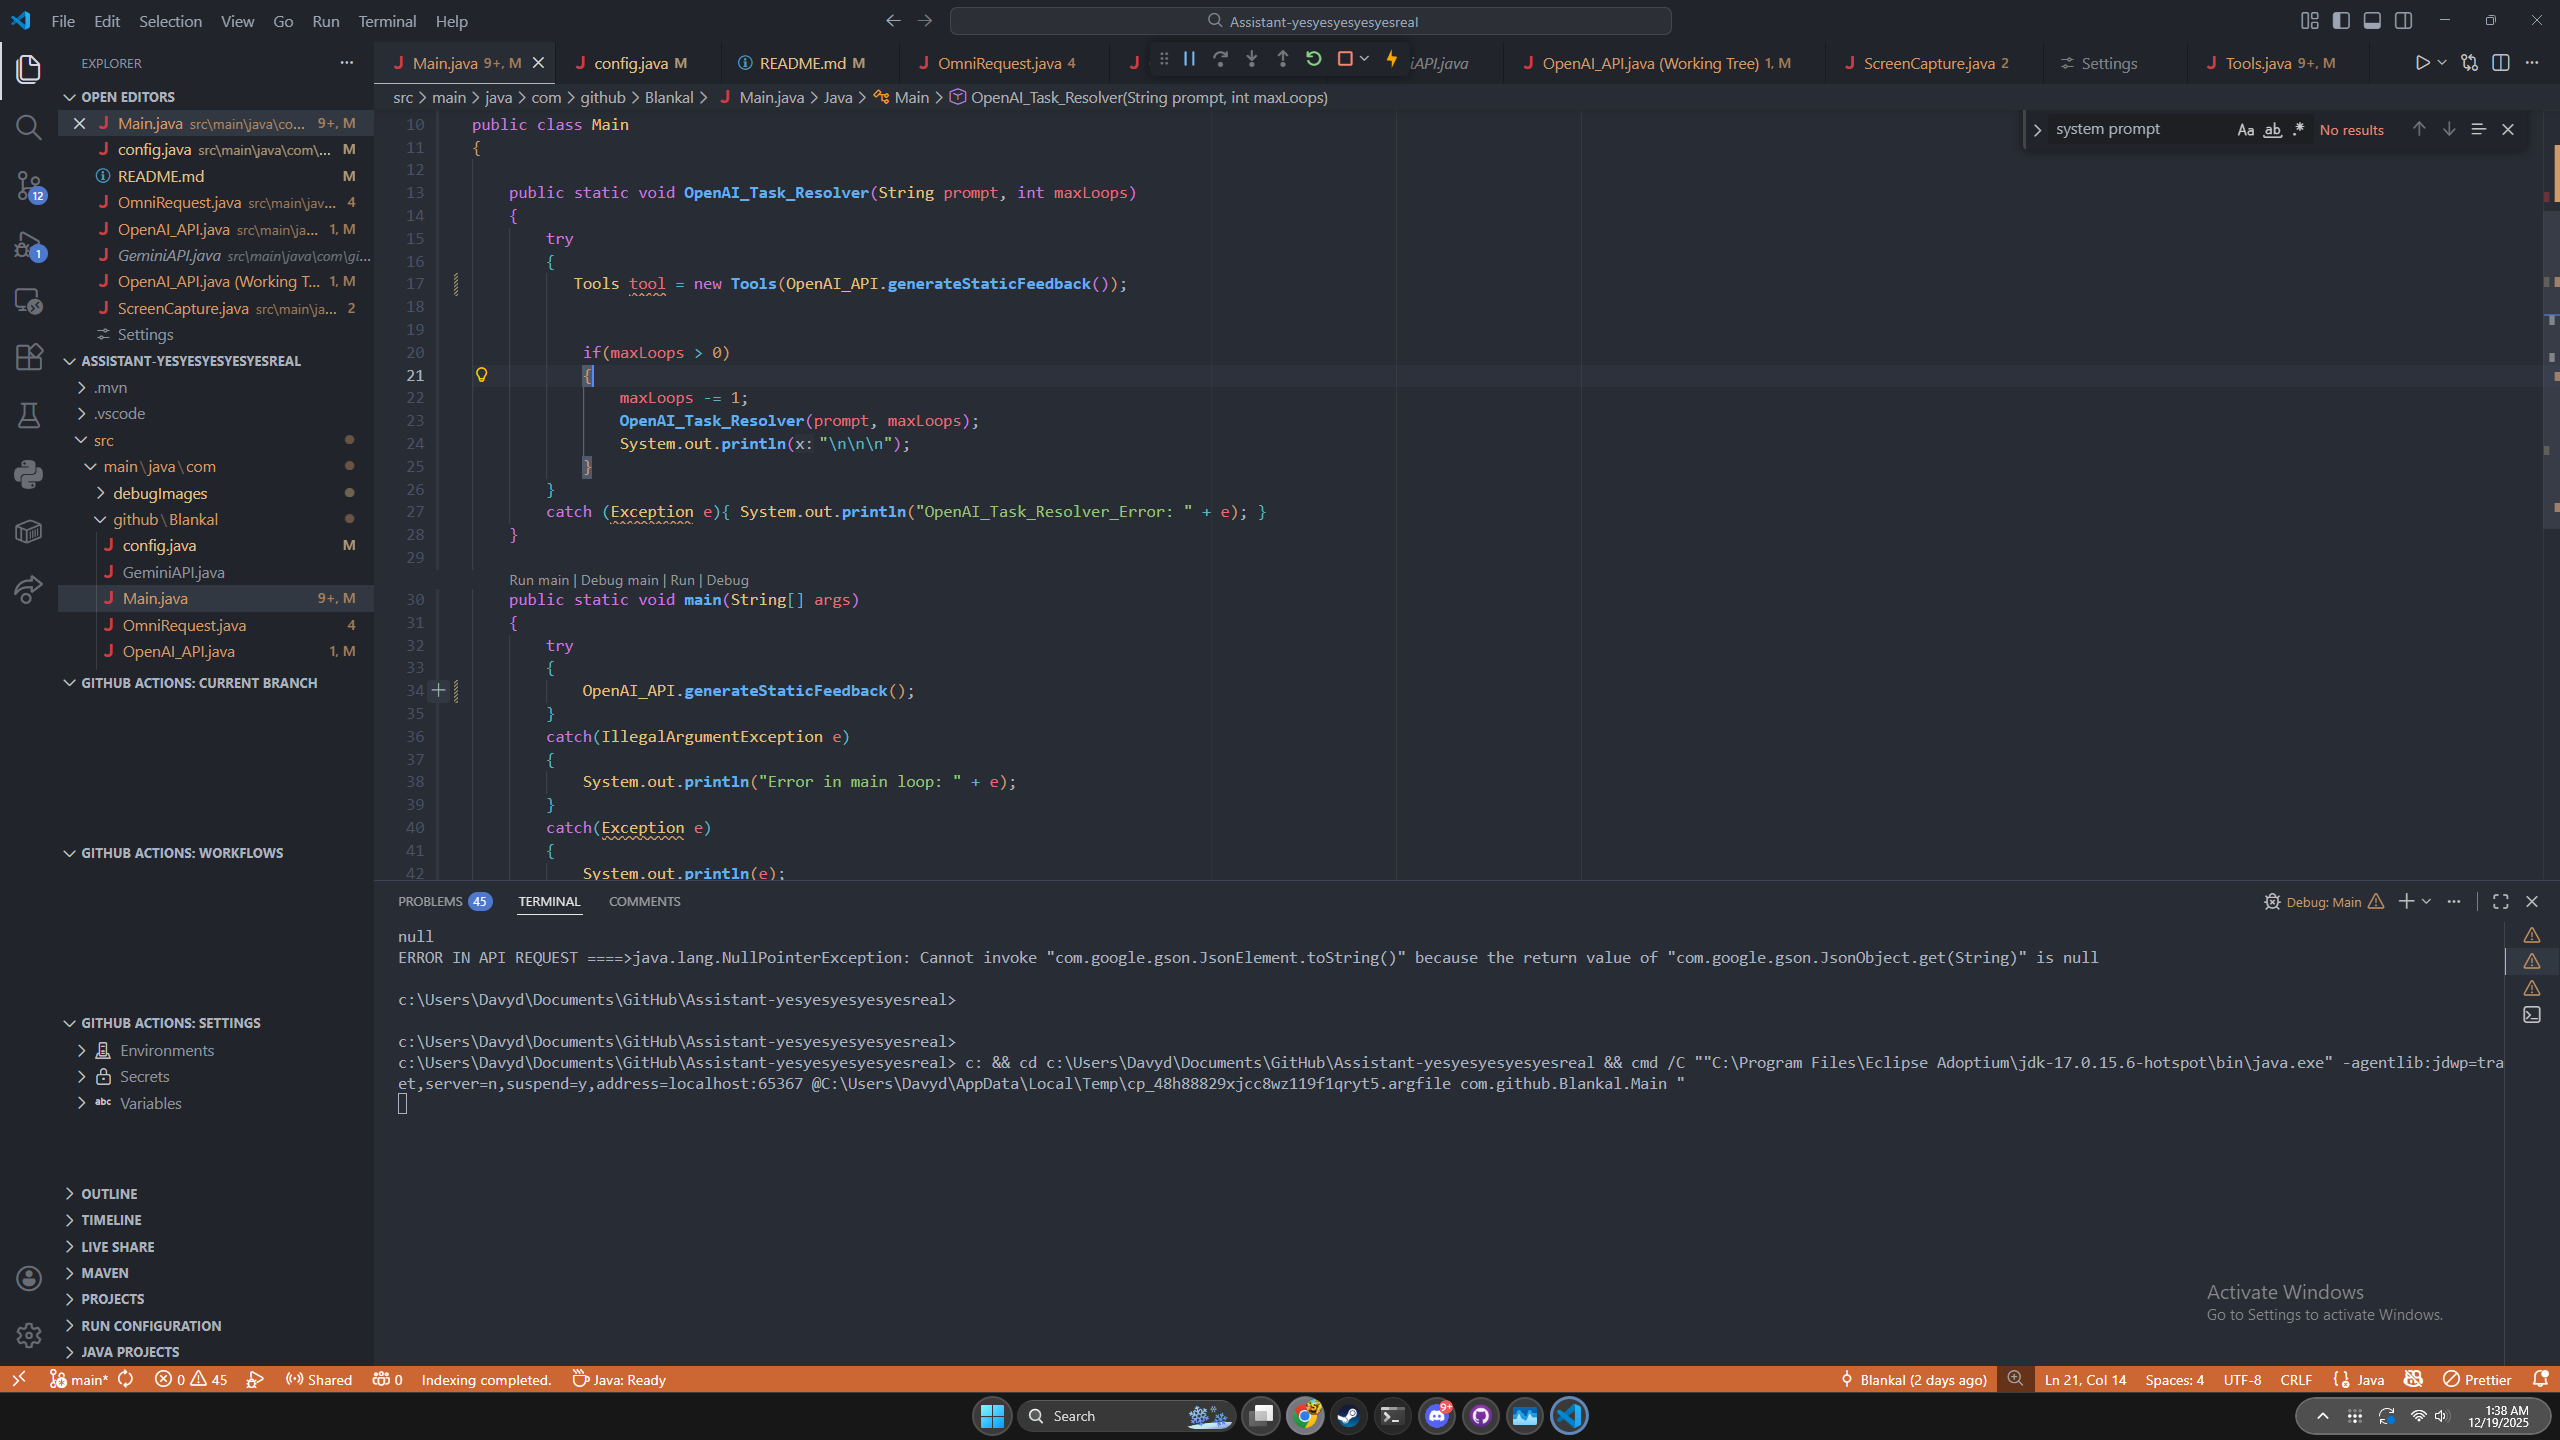
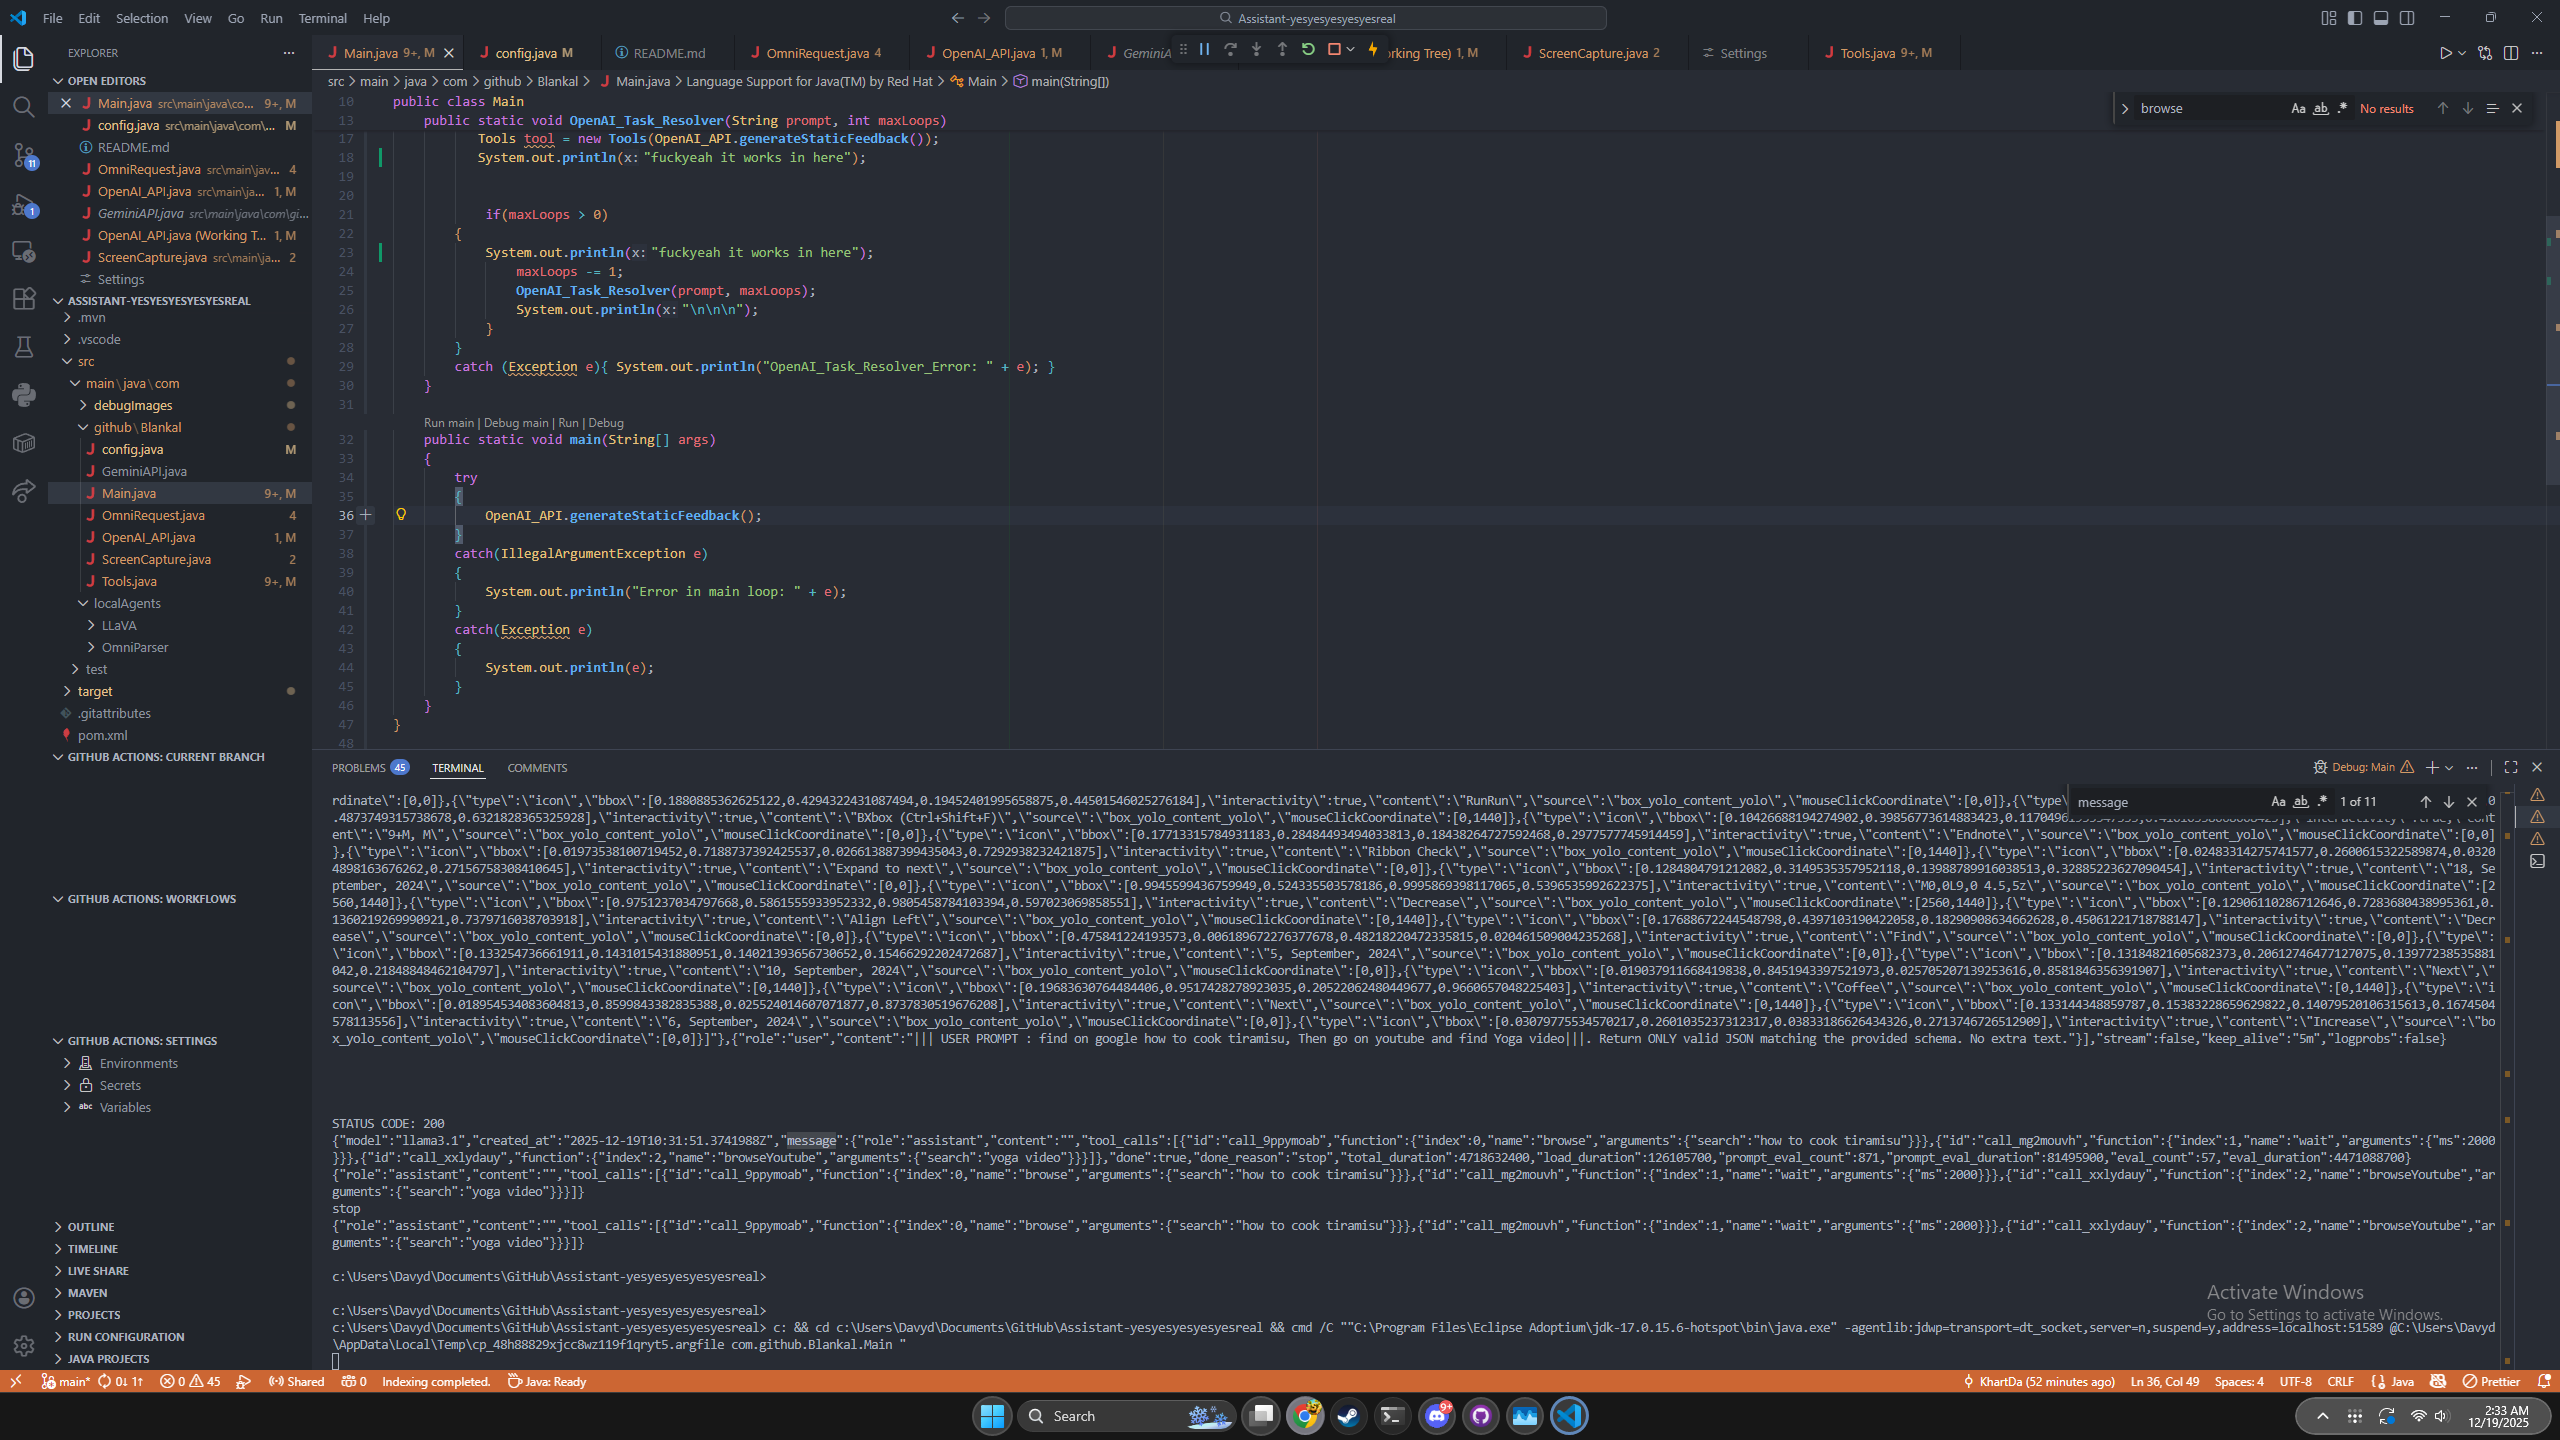
HELL YEAH, FIRST CONTACT

diff --git a/src/main/java/com/github/Blankal/config.java b/src/main/java/com/github/Blankal/config.java
@@ -9,9 +9,9 @@ import static com.github.Blankal.OmniRequest.getOmniParseOutput;
 
 public class config {
 
-    private static final String MODEL_TYPE = "phi3:medium-128k";  // ex: "gemini-2.5-flash, llama3.2"
+    private static final String MODEL_TYPE = "llama3.1";  // ex: "gemini-2.5-flash, llama3.2"
     private static final String MODEL_BRAND = "OpenAI";   // ex: "Google", "OpenAI"
-    private static final String USER_PROMPT = "||| USER PROMPT :" +" Please open youtube."+"|||";
+    private static final String USER_PROMPT = "||| USER PROMPT :" +" find on google how to cook tiramisu, Then go on youtube and find Yoga video and open it "+"|||";
     private static final String THINK_LEVEL = "high";  // choices range from "high", "medium" and "low", lower levels = dumber but less processing time
     private static final int[] SCREEN_DIMENSIONS = {
             Toolkit.getDefaultToolkit().getScreenSize().width,
@@ -68,77 +68,63 @@ public class config {
         JsonArray tools = new JsonArray();// will add all the tools in here
         
 
-        // BROWSE TOOL 
-        JsonObject browse = new JsonObject();
-        browse.addProperty("type", "function");
+            // BROWSE TOOL 
+            JsonObject browseToolEntry = new JsonObject();
+        browseToolEntry.addProperty("type", "function");
 
-        // function block
-        JsonObject browseTool = new JsonObject();
-        browseTool.addProperty("name", "browse");
-        browseTool.addProperty("description", "Search for different topics/words/input in browser");
+        JsonObject browseFnObj = new JsonObject();
+        browseFnObj.addProperty("name", "browse");
+        browseFnObj.addProperty("description", "Search the web/browser using a plain text query (not necessarily a URL).");
 
-        // parameters block
-        JsonObject browseParam = new JsonObject();
-        browseParam.addProperty("type", "object");
+        JsonObject browseParamsObj = new JsonObject();
+        browseParamsObj.addProperty("type", "object");
 
-        // schema for the "search" argument
-        JsonObject search = new JsonObject();
-        search.addProperty("type", "string");
-        search.addProperty("description", "any String input is acceptable, url not required to search in browser");
+        JsonObject browseQuerySchema = new JsonObject();
+        browseQuerySchema.addProperty("type", "string");
+        browseQuerySchema.addProperty("description", "Search query text.");
 
-        // parameters.properties must be an object keyed by arg name
-        JsonObject properties = new JsonObject();
-        properties.add("search", search);
-        browseParam.add("properties", properties);
+        JsonObject browsePropsObj = new JsonObject();
+        browsePropsObj.add("search", browseQuerySchema);
+        browseParamsObj.add("properties", browsePropsObj);
 
-        // parameters.required must be an array of strings
-        JsonArray required = new JsonArray();
-        required.add("search");
-        browseParam.add("required", required);
+        JsonArray browseRequiredArr = new JsonArray();
+        browseRequiredArr.add("search"); // MUST match properties key
+        browseParamsObj.add("required", browseRequiredArr);
 
-        // attach parameters into function, function into tool
-        browseTool.add("parameters", browseParam);
-        browse.add("function", browseTool);
+        browseFnObj.add("parameters", browseParamsObj);
+        browseToolEntry.add("function", browseFnObj);
 
-        tools.add(browse);
+        tools.add(browseToolEntry);
 
+        // =========================
+        // openUrl (strict URL open)
+        // =========================
+        JsonObject openUrlToolEntry = new JsonObject();
+        openUrlToolEntry.addProperty("type", "function");
 
-        //===================================================================
-        //URL-BROWSE
-        // BROWSE TOOL 
-        JsonObject urlBrowse = new JsonObject();
-        browse.addProperty("type", "function");
+        JsonObject openUrlFnObj = new JsonObject();
+        openUrlFnObj.addProperty("name", "openUrl"); // IMPORTANT: unique name (not "browse")
+        openUrlFnObj.addProperty("description", "Open a specific URL in the browser (must start with http:// or https://).");
 
-        // function block
-        JsonObject urlBrowseTool = new JsonObject();
-        urlBrowseTool.addProperty("name", "browse");
-        urlBrowseTool.addProperty("description", "Search STRICTLY WITH URL for different topics/words/input ");
+        JsonObject openUrlParamsObj = new JsonObject();
+        openUrlParamsObj.addProperty("type", "object");
 
-        // parameters block
-        JsonObject  urlBrowseParam = new JsonObject();
-        urlBrowseParam.addProperty("type", "object");
+        JsonObject urlSchema = new JsonObject();
+        urlSchema.addProperty("type", "string");
+        urlSchema.addProperty("description", "Full URL to open, including http:// or https://.");
 
-        // schema for the "search" argument
-        JsonObject urlSearch = new JsonObject();
-        urlSearch.addProperty("type", "string");
-        urlSearch.addProperty("description", "URL REQUIRED TO FOR SEARCH ");
+        JsonObject openUrlPropsObj = new JsonObject();
+        openUrlPropsObj.add("url", urlSchema);
+        openUrlParamsObj.add("properties", openUrlPropsObj);
 
-        // parameters.properties must be an object keyed by arg name
-        JsonObject urlProperties = new JsonObject();
-        urlProperties.add("search", urlSearch);
-        urlBrowseParam.add("properties", urlProperties);
+        JsonArray openUrlRequiredArr = new JsonArray();
+        openUrlRequiredArr.add("url"); // MUST match properties key
+        openUrlParamsObj.add("required", openUrlRequiredArr);
 
-        // parameters.required must be an array of strings
-        JsonArray urlRequired = new JsonArray();
-        urlRequired.add("urlSearch");
-        urlBrowseParam.add("required", urlRequired);
+        openUrlFnObj.add("parameters", openUrlParamsObj);
+        openUrlToolEntry.add("function", openUrlFnObj);
 
-        // attach parameters into function, function into tool
-        urlBrowseTool.add("parameters", urlBrowseParam);
-        browse.add("function", urlBrowseTool);
-
-        tools.add(urlBrowse);
-
+        tools.add(openUrlToolEntry);
 
         // =======================================================================================================================================================================
         // INPUT TEXT TOOL (Ollama tool schema)
@@ -614,6 +600,34 @@ public class config {
         }
     }
 
+    public static JsonObject getUserMessage() {
+    JsonObject userMsgObj = new JsonObject();
+    userMsgObj.addProperty("role", "user");
+    userMsgObj.addProperty(
+        "content",
+        getUserPrompt() + ". Return ONLY valid JSON matching the provided schema. No extra text."
+    );
+    return userMsgObj;
+    
+    
+    }
+
+    public static JsonObject getSystemMessage() {
+    JsonObject sysMsgObj = new JsonObject();
+    sysMsgObj.addProperty("role", "system");
+    sysMsgObj.addProperty("content", getSystemPrompt());
+    return sysMsgObj;
+    }
+
+    public static JsonArray buildMessages() {
+        JsonArray messagesArr = new JsonArray();
+        messagesArr.add(getSystemMessage());
+        messagesArr.add(getUserMessage());
+        return messagesArr;
+    }
+
+
+
     /**
      * Unifies all JSON structures required for making the request
      * @return JsonObject for http request to OpenAI API interaction
@@ -622,12 +636,12 @@ public class config {
     {
         JsonObject jsonPayload = new JsonObject();
         jsonPayload.addProperty("model", getModelType());
-        jsonPayload.addProperty("think", getThinkLevel());
+        // jsonPayload.addProperty("think", getThinkLevel());
         jsonPayload.add("tools", getTools());
         jsonPayload.addProperty("system", getSystemPrompt());
-        jsonPayload.addProperty("prompt", getUserPrompt() + ". Return ONLY valid JSON matching the provided schema. No extra text.");
+        jsonPayload.add("messages", buildMessages());
         jsonPayload.addProperty("stream", false);
-        jsonPayload.addProperty("keep_alive","5");
+        jsonPayload.addProperty("keep_alive","5m");
         jsonPayload.addProperty("logprobs",false);
 
         return jsonPayload;

diff --git a/src/main/java/com/github/Blankal/OpenAI_API.java b/src/main/java/com/github/Blankal/OpenAI_API.java
@@ -40,9 +40,12 @@ import com.google.gson.JsonObject;
                 .build();
             HttpResponse<String> response = client.send(request,BodyHandlers.ofString());
             System.out.println("STATUS CODE: " + response.statusCode());
+            System.out.println(response.body());
             JsonObject jsonResponse = new Gson().fromJson(response.body(), JsonObject.class);
-            System.out.println(jsonResponse.get("response").getAsString());
-            return jsonResponse.get("response").toString();
+            System.out.println(jsonResponse.get("message"));
+            System.out.println(jsonResponse.get("done_reason").getAsString());
+            System.out.println( jsonResponse.getAsJsonObject("message"));
+            return jsonResponse.get("message").toString();
             } catch(Exception e){
                 System.out.println("ERROR IN API REQUEST ====>"+ e);
                 return null;

diff --git a/src/main/java/com/github/Blankal/Main.java b/src/main/java/com/github/Blankal/Main.java
@@ -15,10 +15,12 @@ public class Main
         try
         {
            Tools tool = new Tools(OpenAI_API.generateStaticFeedback());
+           System.out.println("fuckyeah it works in here");
 
             
             if(maxLoops > 0)
         {
+            System.out.println("fuckyeah it works in here");
                 maxLoops -= 1;
                 OpenAI_Task_Resolver(prompt, maxLoops);
                 System.out.println("\n\n\n");

diff --git a/src/main/java/com/github/Blankal/Tools.java b/src/main/java/com/github/Blankal/Tools.java
@@ -106,6 +106,7 @@ public class Tools {
         ObjectMapper mapper = new ObjectMapper();
         try {
             robot = new Robot();
+            System.out.println("23333333333333333333333333333333333333333333333333333333333333");
         } catch (java.awt.AWTException e) {
             System.out.println("Failed to initialize Robot: " + e);
         }
